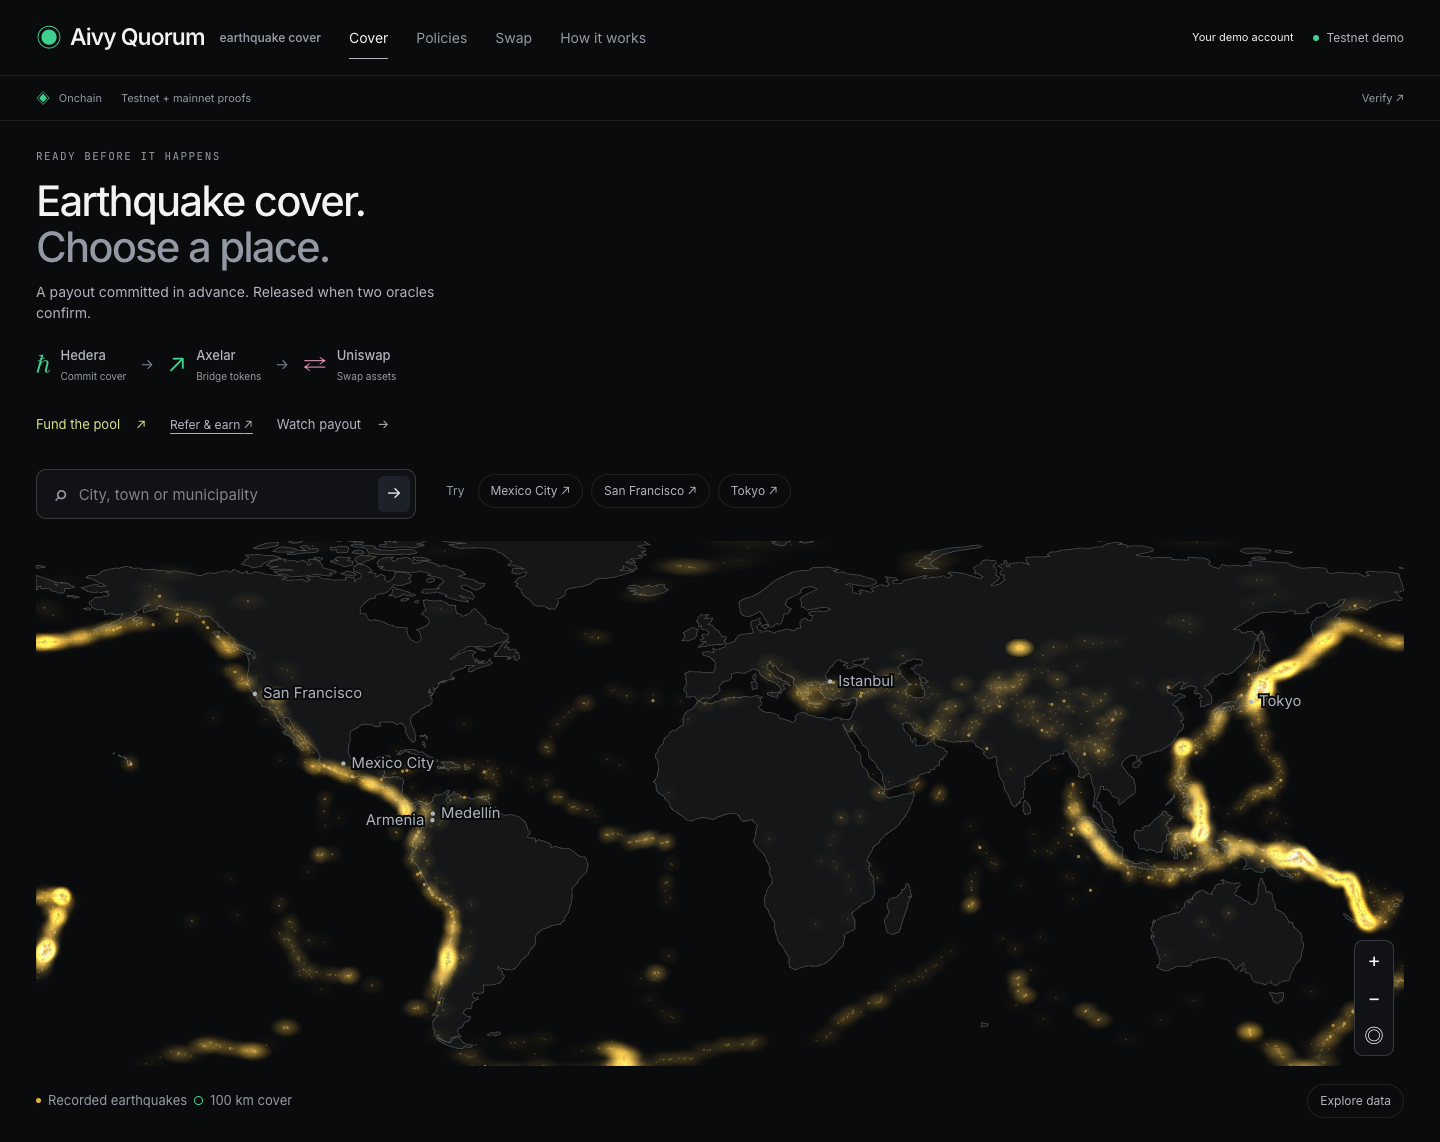
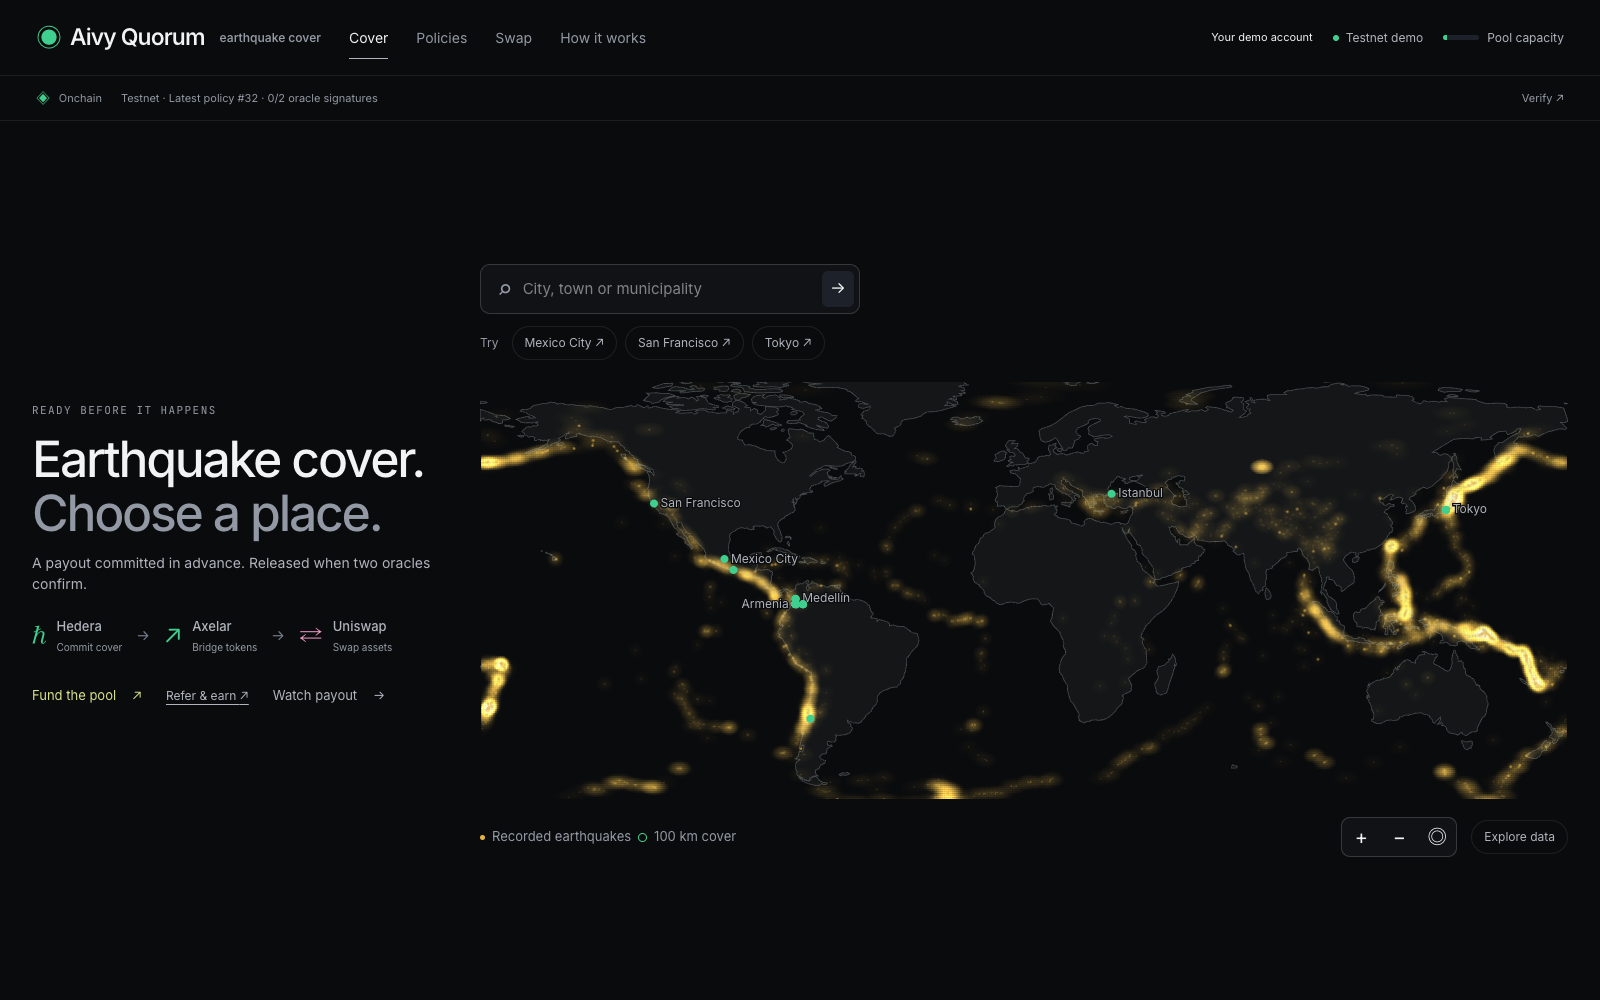
Refresh README screenshots and animated tours from the current app

diff --git a/README.md b/README.md
@@ -15,10 +15,10 @@ Transactions are real; test tokens have no cash value.
 **Judge shortcuts:** [Hedera](#why-hedera) · [Uniswap](#why-uniswap) ·
 [Novelty](#what-is-new) · [Security](#security-by-architecture) · [Evidence](#verify-in-one-minute)
 
-![Choosing a place, pricing it from the earthquake record, and committing the payout on Hedera](docs/media/quorum-flow.gif)
+![Current app: explore the world map, price Tokyo cover, drag through premium history and inspect existing geographic cover NFTs](docs/media/quorum-flow.gif)
 
-*Earlier recorded walkthrough of the cover mechanism. The current app also has
-account payments, shared-pool deposits, oracle checks and bridge/swap controls.*
+*Current UI · September 8, 2026. Choose a place → explore its premium history →
+inspect existing testnet cover NFTs. [Screenshot and recording notes](docs/media/README.md).*
 
 > Public cover is a **funded testnet demo**. `aUSDd` has no cash value; dollars are
 > model outputs. Request event checks from a policy page. Mainnet settlement is a
@@ -188,7 +188,7 @@ mainnet bridge, automatic swap, or return bridge UI.
 
 ### Two pools, two purposes
 
-![Live Uniswap market balances and its genuine on-chain position NFT, with optional liquidity controls](docs/media/06-liquidity.png)
+![Uniswap's active seed position and demo liquidity controls, showing a previously withdrawn position and its confirmed receipt](docs/media/06-liquidity.png)
 
 | | Fund cover | Provide swap liquidity |
 | --- | --- | --- |
@@ -386,7 +386,7 @@ Mainnet signing, arbitrary transfers and ARPS withdrawals are outside this signe
 <table>
 <tr>
 <td width="50%"><img src="docs/media/01-atlas.png" alt="The atlas: every recorded shallow M6+ earthquake since 1970"></td>
-<td width="50%"><img src="docs/media/03-story.png" alt="How it works: a six-scene walk through one recorded mainnet settlement"></td>
+<td width="50%"><img src="docs/media/quorum-story.gif" alt="Current six-scene mainnet replay: choose, commit, confirm, release, verify and protect"></td>
 </tr>
 <tr>
 <td><b>The atlas.</b> Nothing here is drawn. The fault lines emerge from plotting
@@ -462,11 +462,11 @@ intended interface and `TRUST_PROXY=1` only behind a trusted reverse proxy.
 
 ## Pricing and capacity
 
-![The quote panel: Armenia, Quindío priced at four dollars for eight hundred and four dollars of cover](docs/media/02-quote.png)
+![Current Armenia quote: a four-dollar modeled premium, conditional payout, testnet amount and pricing controls beside the map](docs/media/02-quote.png)
 
-*Armenia, Quindío: $4 buys $804 of 30-day cover. The premium is not a constant —
-it comes from the USGS catalogue for that exact point, and the source query is one
-click away under "Coverage & pricing details".*
+*Armenia, Quindío: the panel pairs the modeled premium with its conditional
+30-day payout and testnet token amount. Pricing comes from the USGS catalogue
+for that point; inspect the source under "Coverage & pricing details".*
 
 A first-order Poisson model estimates shallow M6+ frequency over a 300 km
 reference region, scales to the fixed 100 km trigger circle, and adds uncertainty

diff --git a/docs/media/README.md b/docs/media/README.md
@@ -1,0 +1,22 @@
+# Current app media
+
+Captured from [quorum.aivylabs.xyz](https://quorum.aivylabs.xyz) on **September 8,
+2026**, running UI revision [`bda5962`](https://github.com/jmgomezl/aivy-parametric-pool/commit/bda5962f5df0a4c01803a58c6d470e9949783d09).
+Screenshots preserve the app's real content. GIFs condense browser navigation;
+loading between scenes is omitted. No transactions were submitted for this refresh.
+
+| Media | Current view |
+| --- | --- |
+| `quorum-flow.gif` | Map cursor → Tokyo quote → interactive premium history → existing global cover receipts → Tokyo NFT |
+| `quorum-story.gif`, `03-story.png` | Six-scene **recorded mainnet** demonstration; the still shows the transfer after quorum |
+| `01-atlas.png`, `10-large-screen-map.png` | Landing atlas at desktop and 2732 × 786 ultrawide sizes |
+| `02-quote.png`, `08-explore-history.png` | Armenia quote and history; the chart holds the modeled payout at $800 |
+| `04-policies.png` | Existing Tokyo, San Francisco and Mexico City cover NFTs |
+| `09-policy-clarity.png` | Tokyo's **funding estimate**, with shared-pool action and oracle results |
+| `05-swap.png` | New visitor's wallet-free Hedera → Axelar → Uniswap flow |
+| `07-managed-demo.png` | Dedicated demo wallet with its earlier confirmed Sepolia swap receipt |
+| `06-liquidity.png` | Active operator seed NFT and the demo wallet's previously withdrawn Uniswap position |
+
+Testnet tokens have no cash value. Quotes, balances and block numbers are capture-time
+snapshots. Per-policy funding estimates are previews; the mainnet story replays
+controlled experiments from September 4, 2026.
